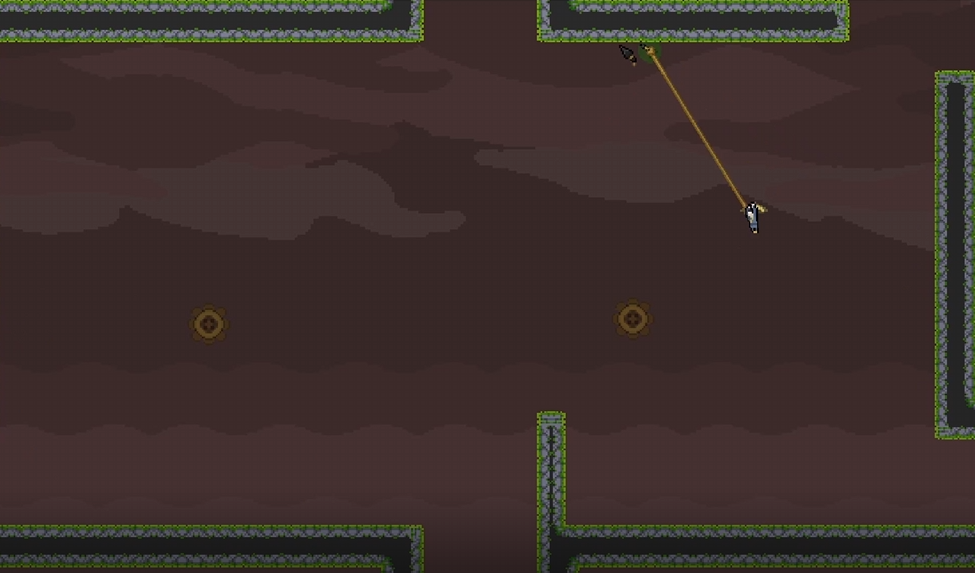
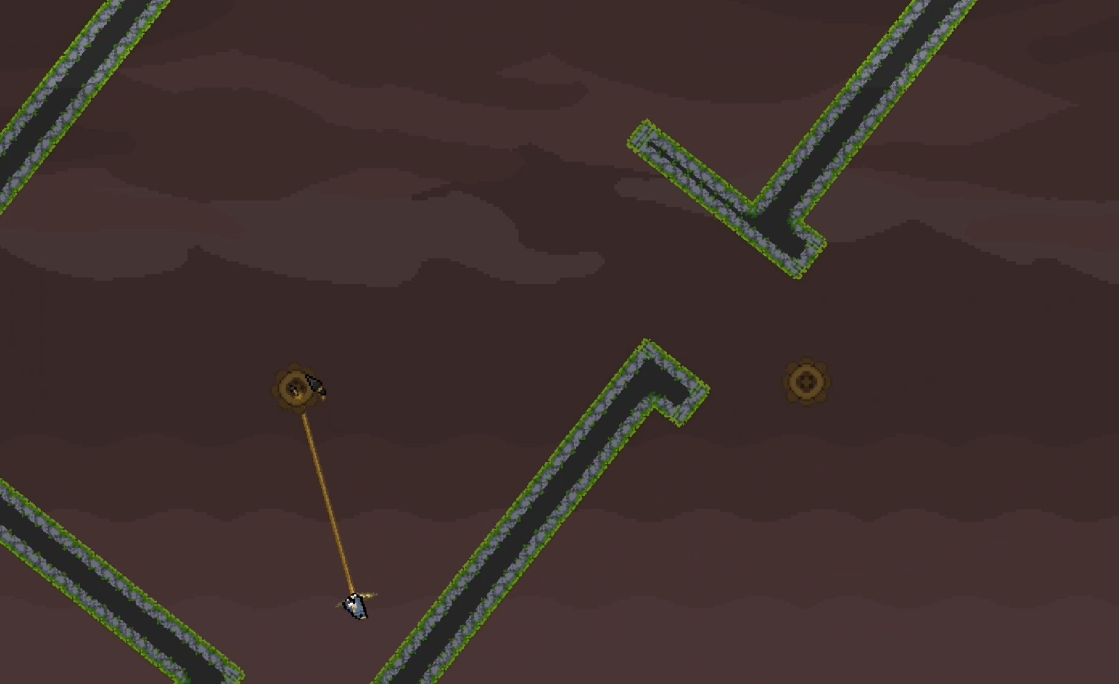
Changed out zg vids

diff --git a/index.htm b/index.htm
@@ -28,7 +28,7 @@
     <div>
       <h2>Ahoy there! I'm Julian.</h2>
       <p>
-        I'm a gameplay programmer, passionate about all aspects of game development. <br>
+        I'm a gameplay programmer, passionate about every aspect of game development. <br>
 		I love collaborating with and learning from all disciplines to build systems that empower creative game design, focusing heavily on game feel to craft incredibly polished and satisfying player experiences.<br>
 		As an Abertay University 2026 Graduate, I am eager to join a passionate community where I can apply my skills and continue growing alongside others, building memorable games together.
 	  </p>
@@ -155,7 +155,6 @@ This allows me to create more intricate, realistic movement for NPCs, such as a 
 		<img src="Drone/Drone-export3.png" class="hover-sprite" draggable="false" oncontextmenu="return false;">
 	 </div>
 	 </div>
-	<!-- <img src="Drone/Drone-export.png" draggable="false" oncontextmenu="return false;"> -->
 	
 	</div>
      <div class="game-outer">
@@ -244,7 +243,6 @@ To be honest, during my time at university, the parallel programming module and 
      <h2>Toppling Tanks</h2>
 	   <div class="topper-image-wrapper">
 	 <div class="character-sprite Tank-Char0">
-	<!-- <img src="Tank/TopplingTanks-export.png" draggable="false" oncontextmenu="return false;"> -->
 		<img src="Tank/Tank0.png" class="normal-sprite" draggable="false" oncontextmenu="return false;">
 		<img src="Tank/Tank0.png" class="hover-sprite" draggable="false" oncontextmenu="return false;">
 	</div>
@@ -332,10 +330,8 @@ Portals attached to walls can be enlarged when a growth ray hits the wall, and a
      <section class="game">
    <div class="game-topper climb-topper">
      <h2>Climbing Archer (WIP)</h2>
-	<!-- <img src="CA/ClimbingArcher-export.png" draggable="false" oncontextmenu="return false;"> -->
 		   <div class="topper-image-wrapper climb-topper">
 	 <div class="character-sprite Goblin-Char">
-	<!-- <img src="Tank/TopplingTanks-export.png" draggable="false" oncontextmenu="return false;"> -->
 		<img src="CA/Goblin.png" class="normal-sprite" draggable="false" oncontextmenu="return false;">
 		<img src="CA/Goblin.png" class="hover-sprite" draggable="false" oncontextmenu="return false;">
 	</div>
@@ -422,10 +418,8 @@ As it's a rage game, while the player falls, the music becomes more distorted as
     <section class="game">
    <div class="game-topper">
      <h2>Sand Game</h2>
-	<!-- <img src="Sand/SandGame-export.png" draggable="false" oncontextmenu="return false;"> -->
 		   <div class="topper-image-wrapper">
 	 <div class="character-sprite LittleGuy-Char">
-	<!-- <img src="Tank/TopplingTanks-export.png" draggable="false" oncontextmenu="return false;"> -->
 		<img src="Sand/LittleGuy.png" class="normal-sprite" draggable="false" oncontextmenu="return false;">
 		<img src="Sand/LittleGuy.png" class="hover-sprite" draggable="false" oncontextmenu="return false;">
 	</div>
@@ -519,7 +513,6 @@ This also allowed me to parallelise the simulation as parallelising each pixel w
    <div class="game-topper">
      <h2>Penguin Voyage</h2>
 	    <div class="topper-image-wrapper">
-	<!-- <img src="PV/PenguinVoyage-export.png" draggable="false" oncontextmenu="return false;"> -->
 	 <div class="character-sprite Cptn-Char">
 		<img src="PV/Cptn.png" class="normal-sprite" draggable="false" oncontextmenu="return false;">
 		<img src="PV/Cptn.png" class="hover-sprite" draggable="false" oncontextmenu="return false;">
@@ -685,9 +678,7 @@ Another small thing we couldn't have known without playtesters is that the freed
 	 	 <section class="game">
    <div class="game-topper">
      <h2>Paul Kart</h2>
-	<!-- <img src="PK/PaulKart-export.png" draggable="false" oncontextmenu="return false;"> -->
 	    <div class="topper-image-wrapper">
-	<!-- <img src="PV/PenguinVoyage-export.png" draggable="false" oncontextmenu="return false;"> -->
 	 <div class="character-sprite Paul-Char">
 		<img src="PK/Paul.png" class="normal-sprite" draggable="false" oncontextmenu="return false;">
 		<img src="PK/Paul.png" class="hover-sprite" draggable="false" oncontextmenu="return false;">

diff --git a/ZenGrappling.js b/ZenGrappling.js
@@ -1,5 +1,5 @@
 const videoFiles = [
-  ["ZG/PortfolioZG0.mp4", "ZG/PortfolioZG1.mp4", "ZG/PortfolioZG2.mp4", "ZG/PortfolioZG3.mp4"],  
+  ["ZG/ZGPort0.mp4", "ZG/ZGPort1.mp4", "ZG/ZGPort2.mp4", "ZG/ZGPort3.mp4"],  
   ["Drone/DroneVid0.mp4", "Drone/DroneVid1.mp4", "Drone/DroneVid2.mp4", "Drone/DroneVid3.mp4"],       
   ["Tank/TankVid0.mp4", "Tank/TankVid1.mp4", "Tank/TankVid2.mp4", "Tank/TankVid3.mp4"],        
   ["CA/CAVid0.mov", "CA/CAVid1.mov", "CA/CAVid2.mov", "CA/CAVid3.mov"],    